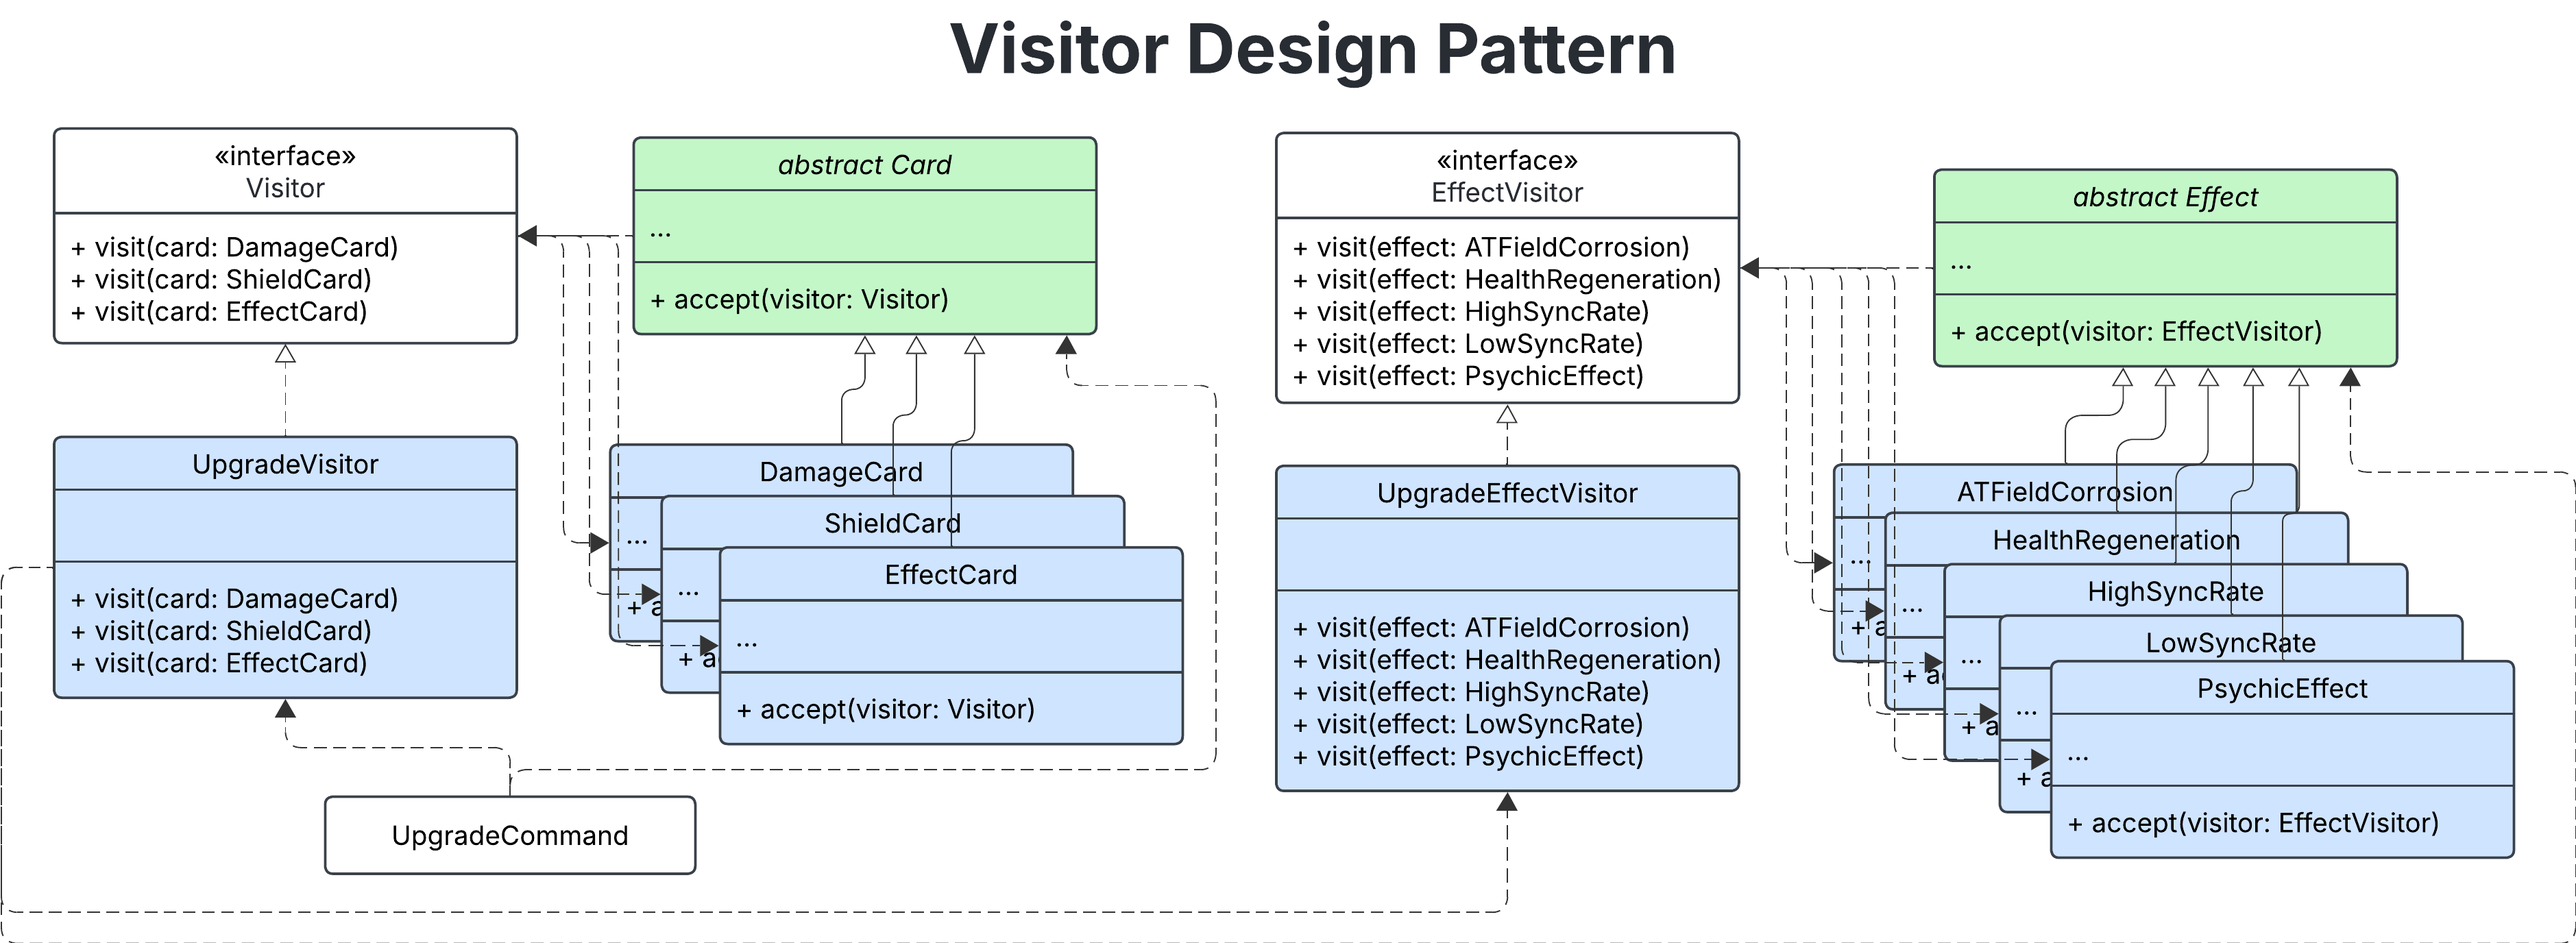
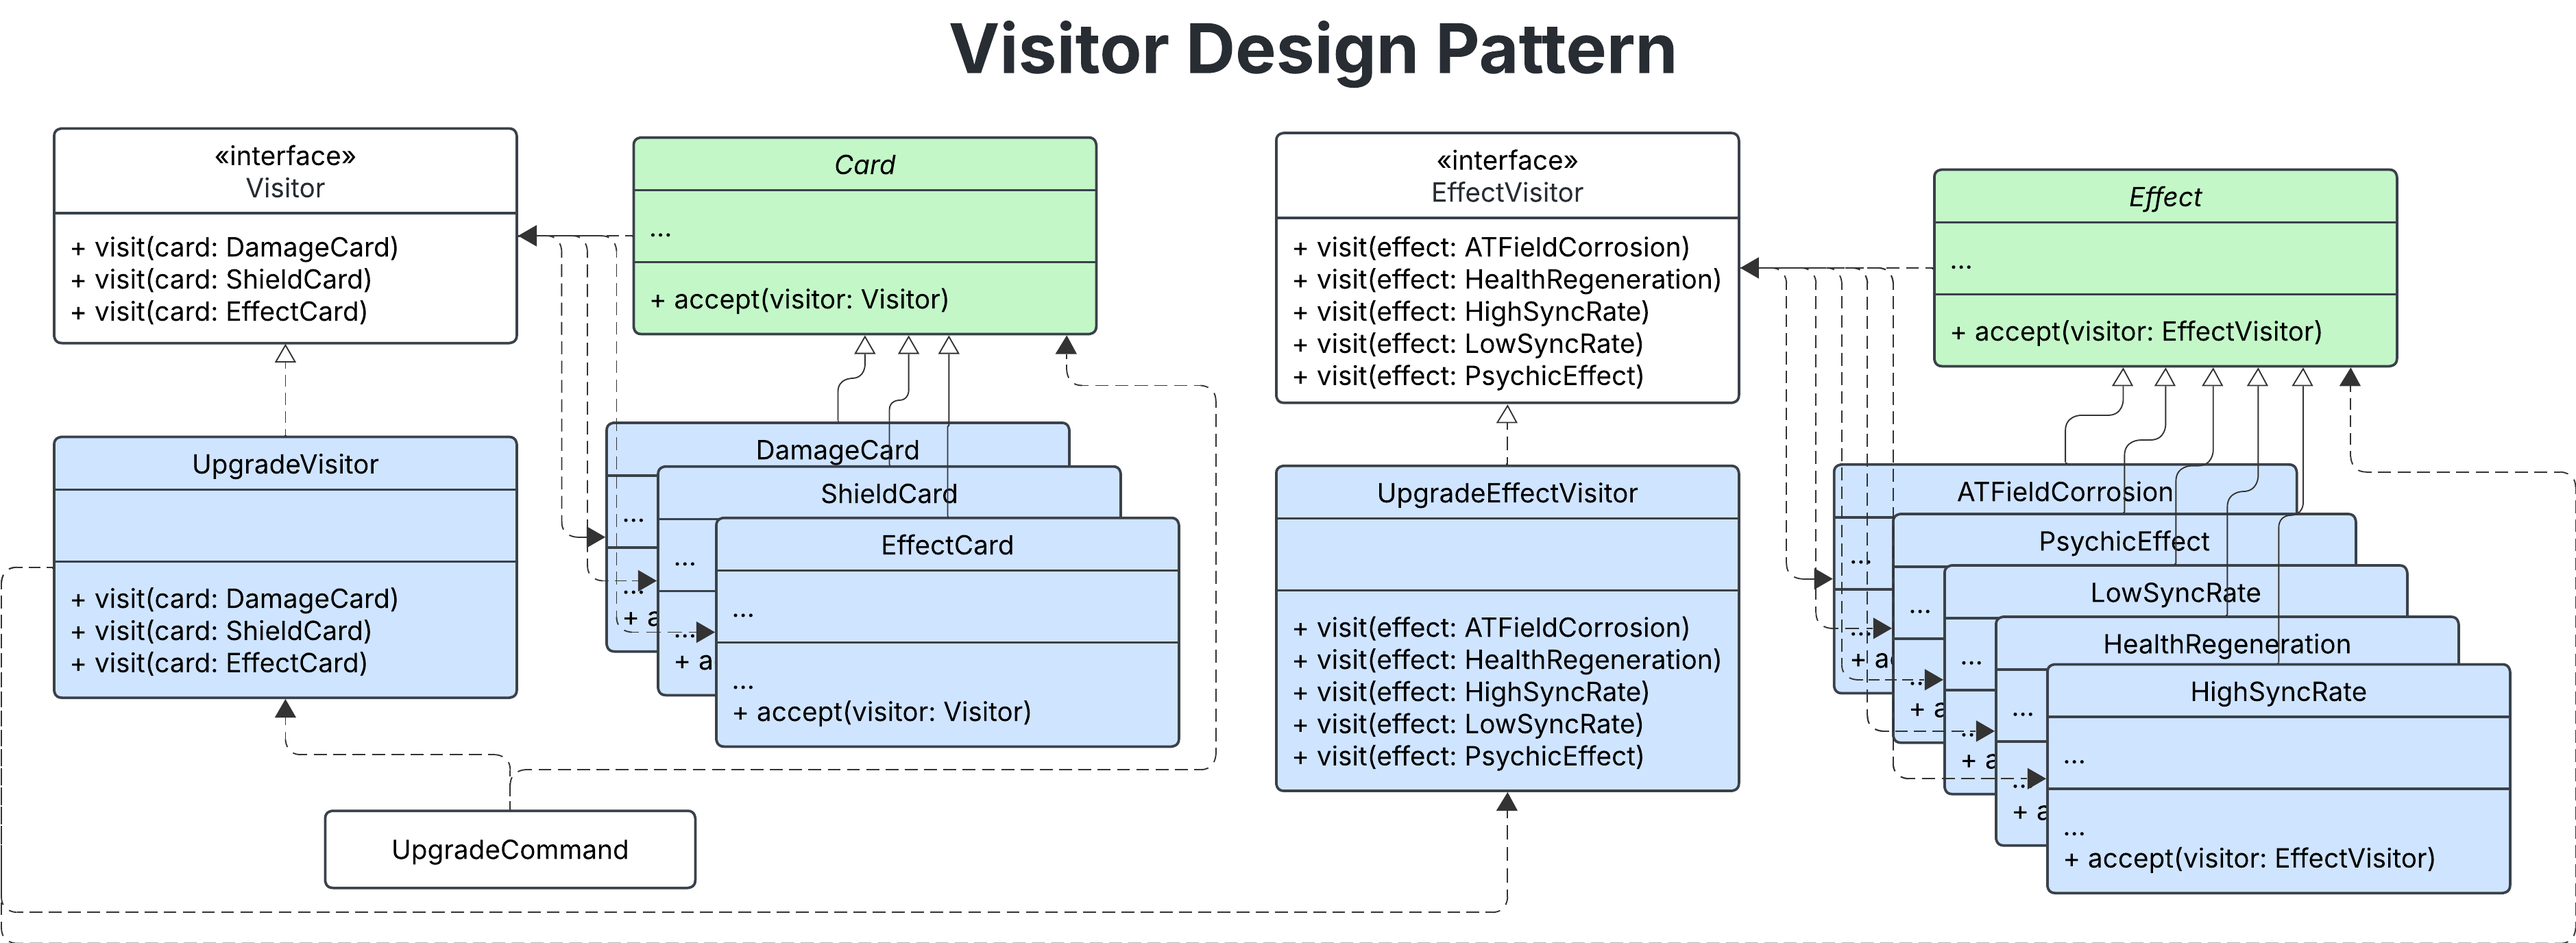
UMLs dos design patterns feitos por mim

diff --git a/README.md b/README.md
@@ -63,6 +63,11 @@ O jogador pode também descansar em uma **Base** (**Fogueira**), onde pode **rec
 
 Usado para implementar as diferentes funções da fogueira. O pacote `mc322_slay.event.command` contém a classe abstrata `Command` com o método abstrato `execute(Hero hero)`. Então, cada classe concreta que herda de `Command` é responsável pela lógica de execução de cada ação. A classe `RestSize` é responsável pela atribuição de cada comando às respectivas teclas do teclado no método `init(Hero hero, CardStack possibleNewCards)`, através de um `HashMap`.
 
+- Fontes:
+- https://refactoring.guru/design-patterns/command
+
+<img src="assets/commandDesign.png" width="450" height="" alt="visitorDesign">
+
 ### [Visitor](https://refactoring.guru/design-patterns/visitor)
 
 No caso específico do `UpgradeCommand.java`, foi utilizado o padrão de design Visitor para fortalecer as cartas do jogador. O pacote `mc322_slay.visitor` contém a interface `Visitor`, que encapsula as sobrecargas dos métodos `visit` para cada tipo de carta. Então, a classe concreta `UpgradeVisitor` implementa os mesmos, fortalecendo atributos específicos dentro dos métodos para cada tipo de carta. No pacote `mc322_slay.card`, foi necessário criar na classe abstrata `Card` um método abstrato `accept(Visitor visitor)`, que é implementado em cada classe concreta de modo a chamar o método `visit`, passando como parâmetro a própria classe. Desse modo, a classe não fica responsável por saber como ser melhorada, sendo esta responsabilidade delegada ao `Visitor`.
@@ -70,11 +75,9 @@ No caso específico do `UpgradeCommand.java`, foi utilizado o padrão de design 
 Já em se tratando dos efeitos de cada `EffectCard`, para implementar a melhoria dessa carta na fogueira, foram criadas uma interface `EffectVisitor` e uma classe concreta `UpgradeEffectVisitor` que implementa a interface. Desse modo, analogamente ao que foi feito para as cartas, a classe abstrata `Effect` tem o método abstrato `accept(EffectVisitor visitor)`, que é implementado em cada classe concreta de modo a chamar o método `visit`. 
 
 Fontes:
-- https://refactoring.guru/design-patterns/command
-
 - https://refactoring.guru/design-patterns/visitor
 
-<img src="assets/visitorDesign.png" width="900" height="" alt="visitorDesign">
+<img src="assets/visitorDesign.png" width="1200" height="" alt="visitorDesign">
 
 ## Relíquias
 
